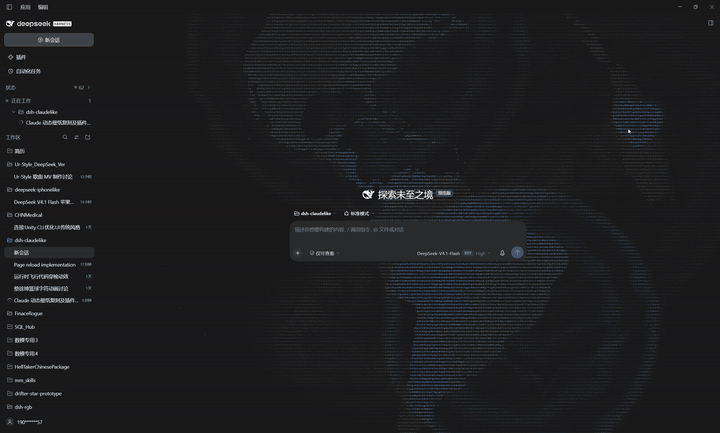
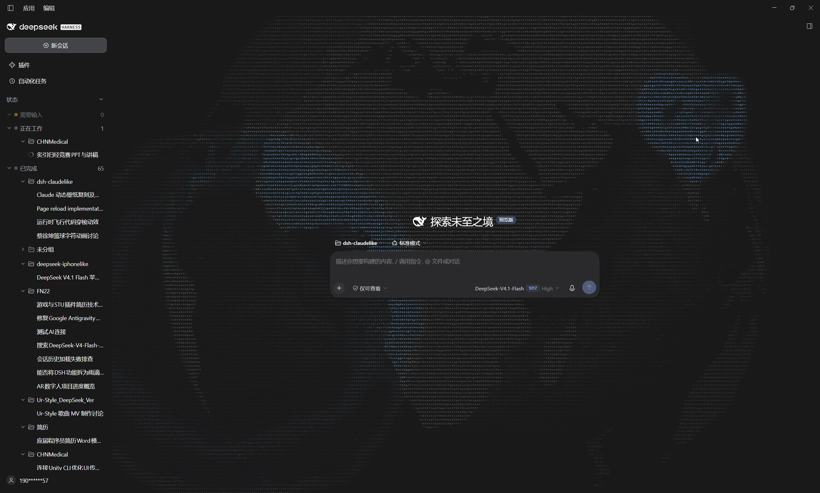
v2.9.1: translucent globe and refreshed showcase GIF
- far-side continents shown through the sphere at 0.25 alpha (rotating together)
- new real-screen GIF replaces the previous globe demo
- README: preset table and changelog updated

diff --git a/code-ripple-background/client.js b/code-ripple-background/client.js
@@ -642,9 +642,10 @@ void main() {
     float globe = 0.0;
     if (d2 < 1.0) {
       float z = sqrt(max(0.0, 1.0 - d2));
-      vec3 n = normalize(vec3(q.x, -q.y, z));
       float spin = u_time * 0.18;
       float cs = cos(spin), sn = sin(spin);
+      // front hemisphere
+      vec3 n = normalize(vec3(q.x, -q.y, z));
       vec3 w = vec3(cs * n.x + sn * n.z, n.y, -sn * n.x + cs * n.z);
       float lat = asin(clamp(w.y, -1.0, 1.0));
       float lon = atan(w.x, w.z);
@@ -656,6 +657,16 @@ void main() {
       float limb = smoothstep(0.02, 0.45, z);
       float edge = smoothstep(1.0, 0.965, d2);
       globe = coast * lit * (0.50 + 0.50 * limb) * edge;
+      // far-side continents seen through the globe as a faint reflection
+      vec3 nb = normalize(vec3(q.x, -q.y, -z));
+      vec3 wb = vec3(cs * nb.x + sn * nb.z, nb.y, -sn * nb.x + cs * nb.z);
+      float latb = asin(clamp(wb.y, -1.0, 1.0));
+      float lonb = atan(wb.x, wb.z);
+      vec2 uvb = vec2(lonb * (1.0 / TAU) + 0.5, 0.5 - latb * (1.0 / 3.14159265));
+      float landb = texture(u_earth, uvb).r;
+      float coastb = smoothstep(0.22, 0.78, landb);
+      float backFade = 0.75 + 0.25 * smoothstep(0.0, 0.5, z);
+      globe += coastb * 0.25 * backFade * edge;
     }
     float holes = noise(vec3(p / 24.0, u_time * 2.2), 0x63u);
     globe *= 1.0 - 0.90 * ripple * smoothstep(0.10, 0.55, holes);
@@ -1544,7 +1555,7 @@ void main() {
         rememberLook(params.key);
         host.dataset.landingTexture = 'canvas';
         layer.canvas.dataset.look = params.key + '/' + params.seed.toString(16);
-        layer.canvas.dataset.version = '2.9.0';
+        layer.canvas.dataset.version = '2.9.1';
 
         const touch = createTouch();
         let scheme = readScheme();

diff --git a/README.md b/README.md
@@ -14,10 +14,13 @@
 
 ![立体地球 · 点击涟漪冲散大陆](docs/screenshots/presets-globe.gif)
 
-> 真实录屏（GIF 已压缩）：立体地球自转、大陆轮廓与明暗，以及点击后涟漪把画面冲散、再重新聚合的过程。
+> 真实录屏（GIF 已压缩）：立体地球自转、大陆轮廓与明暗、背面大陆以低透明度透出，以及点击后涟漪把画面冲散、再重新聚合的过程。
 
 
-## 最新更新 · v2.9.0：7 种背景预设
+## 最新更新 · v2.9.1：立体地球支持背面大陆透出
+
+- 立体地球现在是一个「半透明球体」：正面大陆正常点亮，**背面大陆以 0.25 的透明度透出**，随球体一起转动；
+- 下方是 v2.9.0 的 7 种预设总览。
 
 背景不再是固定效果，而是一套可切换的**代码艺术预设**。设置 → 通用里有两个独立下拉：
 
@@ -33,7 +36,7 @@
 | **DeepSeek 鲸鱼** | 官方鲸鱼矢量标，由代码字符拼成，居中、固定 |
 | **鲸鱼女仆** | 灰度细节代码肖像：面板高 1.9 倍、围裙小鲸鱼兜子正好压在底边框 |
 | **Q版鲸鱼女仆** | Q 版细节肖像，居中、高度占满面板 |
-| **立体地球** | 真正的 3D 球体自转，只显示大陆（无海洋），50m 精度海岸线 |
+| **立体地球** | 真正的 3D 球体自转，只显示大陆（无海洋），50m 精度海岸线；正面大陆实亮，背面大陆以低透明度透出 |
 | **大陆横移** | 平面世界大陆从左向右缓缓滚动，尺寸与立体地球一致 |
 
 所有预设共享同一套交互：
